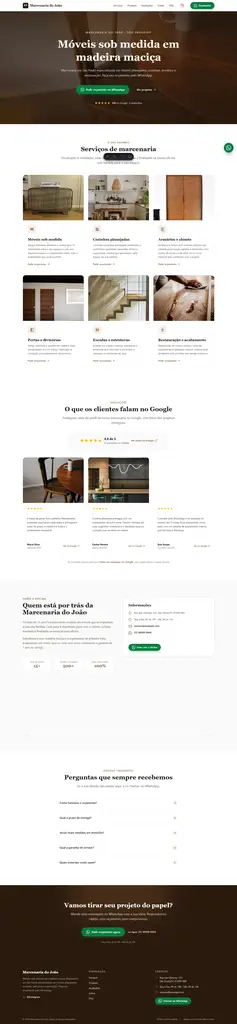
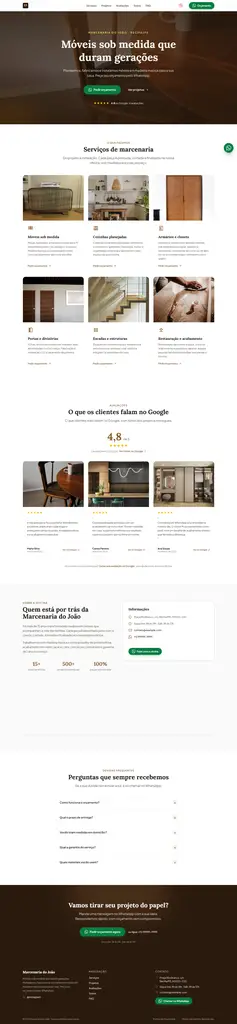
docs: README reescrito com narrativa de produto e screenshots atualizados

diff --git a/README.md b/README.md
@@ -1,47 +1,61 @@
-# oficio-template
+# Ofício
 
-Site profissional para negócios de serviço: marcenarias, encanadores, eletricistas,
-reformas. Um template pensado para ser entregue a clientes reais: todos os dados do
-negócio ficam em um único arquivo de configuração e o conteúdo (serviços, projetos,
-avaliações) é editado em Markdown.
+**Um site profissional para quem vive do próprio trabalho.** Template completo de site
+para prestadores de serviço: marcenarias, encanadores, eletricistas, reformas e
+qualquer negócio que venda serviço. Feito para ser entregue a clientes reais, com
+conteúdo editável em Markdown e dados centralizados em um único arquivo.
 
 [![Astro](https://img.shields.io/badge/Astro-7-BC52EE?logo=astro&logoColor=white)](https://astro.build)
 [![Tailwind CSS](https://img.shields.io/badge/Tailwind%20CSS-4-38BDF8?logo=tailwindcss&logoColor=white)](https://tailwindcss.com)
 [![Bun](https://img.shields.io/badge/Bun-1.3-F9F1E1?logo=bun&logoColor=white)](https://bun.sh)
 [![License: MIT](https://img.shields.io/badge/License-MIT-yellow.svg)](LICENSE)
 
+## O que é
+
+Um produto de site estático construído para resolver um problema real: pequenos
+negócios de serviço precisam de presença online profissional, mas não têm tempo (nem
+orçamento) para um site sob medida do zero. Este template entrega isso em um pacote
+que qualquer pessoa consegue adaptar em minutos.
+
+- **Para o cliente:** um site rápido, bonito e focado em conversão, com botão de
+  WhatsApp em todo lugar, avaliações do Google e galeria de projetos.
+- **Para o dev:** um codebase limpo, documentado e 100% estático, sem banco, sem
+  backend, quase sem JavaScript no navegador. Deploy em qualquer lugar.
+
 ## Screenshots
 
-| Home | Projetos |
+| Home | Página de projetos |
 | --- | --- |
 | ![Home](docs/screenshot-home.webp) | ![Projetos](docs/screenshot-projetos.webp) |
 
 ## O que o site entrega
 
-- **Conversão direta para WhatsApp**: botões flutuantes, no header, no hero e em
-  cada serviço/projeto, com mensagem pré-preenchida por contexto (ex.: "Olá! Quero
-  um orçamento para cozinhas planejadas."). Sem formulário, sem backend.
-- **Página de projetos com galeria**: um card por projeto, cada um com várias fotos
-  que abrem em um lightbox com navegação.
-- **Avaliações do Google com curadoria**: só as melhores avaliações aparecem na home
-  (flag `featured`), com a foto do projeto citado.
-- **Sobre com mapa**: Google Maps embutido a partir do endereço da configuração.
-- **Política de privacidade em conformidade com a LGPD**: página pronta, com direitos
-  do titular e tratamento de imagens.
-- **SEO de verdade**: dados estruturados JSON-LD (negócio local, aggregate rating,
-  reviews e FAQ), sitemap.xml automático, Open Graph e meta tags.
-- **Performance**: site 100% estático, quase zero JavaScript no navegador, imagens
-  otimizadas automaticamente pelo Astro.
+- **Conversão direta para WhatsApp** — botão flutuante, no header, no hero e em cada
+  serviço e projeto, com mensagem pré-preenchida por contexto ("Olá! Quero um
+  orçamento para cozinhas planejadas."). Sem formulário, sem backend, sem custo.
+- **Página de projetos com galeria e lightbox** — um card por projeto, várias fotos
+  por projeto, navegação entre fotos e CTA de orçamento dentro do lightbox.
+- **Avaliações do Google com curadoria** — a home mostra apenas as melhores
+  avaliações (flag `featured`), com a foto do projeto citado.
+- **Seção Sobre com mapa** — Google Maps embutido a partir do endereço da
+  configuração; o pin acompanha o endereço do cliente automaticamente.
+- **Política de privacidade em conformidade com a LGPD** — página pronta, incluindo
+  direitos do titular e tratamento de imagens.
+- **SEO estruturado** — JSON-LD com `LocalBusiness`, `aggregateRating`, `Review` e
+  `FAQPage` para rich results no Google, sitemap automático, Open Graph.
+- **Performance** — site 100% estático, ~0 JavaScript no navegador, imagens
+  otimizadas pelo Astro e fontes self-hosted (sem request a terceiros, sem cookies
+  de rastreamento).
 
 ## Stack
 
-| Camada | Tecnologia |
-| --- | --- |
-| Framework | Astro 7 |
-| Estilo | Tailwind CSS 4 |
-| Runtime/package manager | Bun |
-| Build | `astro build` (saída estática em `dist/`) |
-| Extras | @astrojs/sitemap |
+| Camada | Escolha | Por quê |
+| --- | --- | --- |
+| Framework | **Astro 7** | Gera HTML estático com ~0 JS; content collections validam o conteúdo |
+| Estilo | **Tailwind CSS 4** | Design system rápido e consistente via tokens CSS |
+| Runtime | **Bun** | Instalação e build muito mais rápidos que npm |
+| Fontes | **Lora + Plus Jakarta Sans** | Self-hosted via @fontsource; visual artesanal e legível sem dependência externa |
+| SEO | **@astrojs/sitemap** | sitemap.xml gerado no build |
 
 ## Como rodar
 
@@ -56,13 +70,12 @@ bun run preview   # serve o build localmente
 
 Tudo que muda de negócio para negócio está em 2 lugares:
 
-1. **`src/config/site.ts`** — nome, tagline, telefone/WhatsApp, endereço, horário,
-   Instagram, cores da marca (3 hex), textos, estatísticas e FAQ. É o único arquivo
-   que precisa de edição para adaptar o site.
+1. **`src/config/site.ts`** — nome, tagline, WhatsApp, endereço, horário, Instagram,
+   cores da marca, textos, estatísticas e FAQ. Um único arquivo.
 2. **`src/content/`** — conteúdo em Markdown:
-   - `services/` — serviços (título, ícone, foto ilustrativa, descrição);
-   - `portfolio/` — projetos da galeria (várias fotos por projeto, título, tags, ano);
-   - `reviews/` — avaliações do Google (nome, estrelas, data, link, `featured` e foto).
+   - `services/` — serviços (título, ícone, foto, descrição);
+   - `portfolio/` — projetos (várias fotos por projeto, tags, ano);
+   - `reviews/` — avaliações do Google (`featured: true` define o que aparece na home).
 
 A ordem das seções da home é definida em `src/pages/index.astro`.
 
@@ -89,37 +102,29 @@ src/
 
 ### Coolify (VPS própria)
 
-O repositório já inclui um [`nixpacks.toml`](nixpacks.toml) que fixa o build
-(`bun install` + `bun run build`). No Coolify:
-
-1. **Create New Resource** → **Public Repository** → cole a URL do repositório.
-2. Build Pack: **Nixpacks** (padrão).
-3. Marque **Is it a static site?** e defina **Publish Directory** como `/dist`
-   (o Coolify serve o site com Nginx).
-4. Defina o domínio e clique em **Deploy**.
-
-A cada `git push`, o Coolify rebuila e publica automaticamente. Alternativa para
-Vercel/Netlify/Cloudflare Pages: build command `bun run build`, publish directory `dist`.
+O repositório inclui um [`nixpacks.toml`](nixpacks.toml) que fixa o build. No
+Coolify: **Create New Resource → Public Repository** → Build Pack **Nixpacks** →
+marque **Is it a static site?** → **Publish Directory** `/dist`. O site é servido
+com Nginx e rebuila a cada push.
 
 ### Outros provedores
 
-- **Netlify** — build command `bun run build`, publish directory `dist`
+- **Netlify** — build `bun run build`, publish directory `dist`
 - **Vercel** — framework preset Astro, output `dist`
 - **Cloudflare Pages** — build `bun run build`, output `dist`
 
 ## LGPD
 
-O template inclui uma [política de privacidade](src/pages/privacidade.astro) pronta:
-o site não coleta dados automaticamente (sem formulários e sem cookies de
-rastreamento), as conversas acontecem no WhatsApp do cliente e as fotos de projetos e
-depoimentos são publicadas somente com consentimento. Antes de publicar, revise o
-nome do controlador e o e-mail de contato em `src/config/site.ts`.
+Política de privacidade pronta em `src/pages/privacidade.astro`: o site não coleta
+dados automaticamente (sem formulários, sem cookies de rastreamento), as conversas
+acontecem no WhatsApp do cliente e fotos/depoimentos são publicados somente com
+consentimento.
 
-## Créditos das fotos de exemplo
+## Créditos
 
-As fotos do template vêm do [Unsplash](https://unsplash.com) (licença livre para uso
-comercial, sem atribuição obrigatória). Substitua pelas fotos reais dos trabalhos do
-cliente, com autorização de uso de imagem.
+Fotos de exemplo do [Unsplash](https://unsplash.com) (licença livre para uso
+comercial). Substitua pelas fotos reais dos trabalhos do cliente, com autorização de
+uso de imagem.
 
 ## Licença
 
